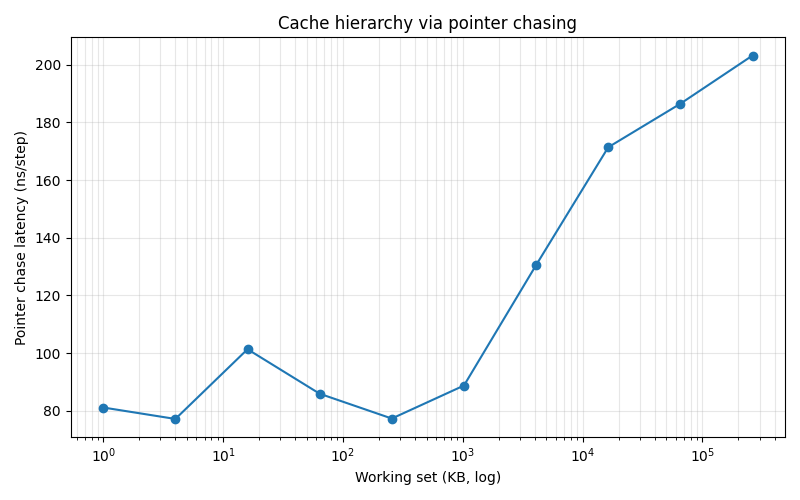
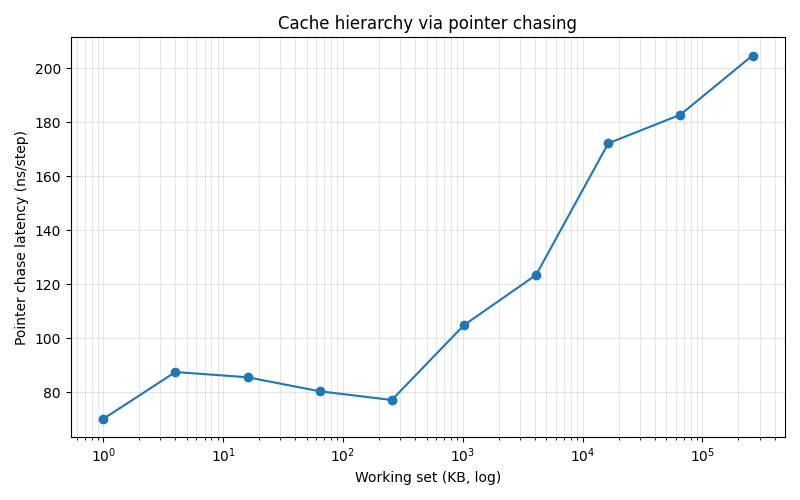
style: reorganize image output paths and directory structure

diff --git a/01_system_foundations/lab/02_cache_hierarchy_bench.py b/01_system_foundations/lab/02_cache_hierarchy_bench.py
@@ -5,6 +5,12 @@ import time
 import matplotlib.pyplot as plt
 import numpy as np
 
+from pathlib import Path
+
+base_path = Path(__file__).resolve().parent
+output_dir = base_path / "results"
+output_dir.mkdir(parents=True, exist_ok=True)
+
 np.seterr(over="ignore", divide="ignore", invalid="ignore")
 
 
@@ -65,7 +71,7 @@ def main() -> None:
     plt.title("Cache hierarchy via pointer chasing")
     plt.grid(True, which="both", alpha=0.3)
     plt.tight_layout()
-    plt.savefig("02_working_set_result.png", dpi=100)
+    plt.savefig(output_dir / "02_working_set_result.png", dpi=100)
     print("\nSaved: 02_working_set_result.png")
 
     print("\n=== Experiment 2: NumPy row vs column sum (axis=1 vs axis=0) ===")
